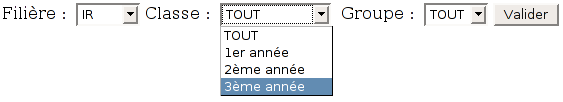
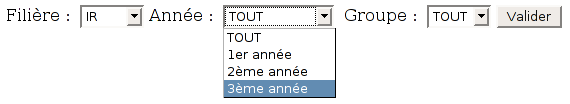
Changement des filtre, classe devient année

Changed region(s): [[0.0, 0.0294, 0.9964, 0.9706], [0.3925, 0.6176, 0.5435, 0.7353], [0.3925, 0.4706, 0.5133, 0.5882]]

diff --git a/trunk/docs/specs_ig/client_leger/filtres.html b/trunk/docs/specs_ig/client_leger/filtres.html
@@ -2,14 +2,17 @@
 <html>
 <head>
 
+
+  
   <meta content="text/html; charset=ISO-8859-1" http-equiv="content-type">
+
+  
   <title>filtres</title>
-
-
 </head>
 
 
 <body>
+
 
 Fili&egrave;re :&nbsp;
 <select name="Fili&egrave;re">
@@ -18,8 +21,7 @@ Fili&egrave;re :&nbsp;
 <option>MFPI</option>
 <option>EI</option>
 </select>
-
-Classe :&nbsp;
+ Ann&eacute;e :&nbsp;
 <select name="Classe">
 <option>TOUT</option>
 <option>1er ann&eacute;e</option>
@@ -27,12 +29,14 @@ Classe :&nbsp;
 <option>3&egrave;me ann&eacute;e</option>
 </select>
 
+
 &nbsp;Groupe :&nbsp;
 <select name="Classe">
 <option>TOUT</option>
 <option>A</option>
 <option>B</option>
 </select>
+
 
 <button value="Valider" name="Valider">Valider</button>
 </body>
